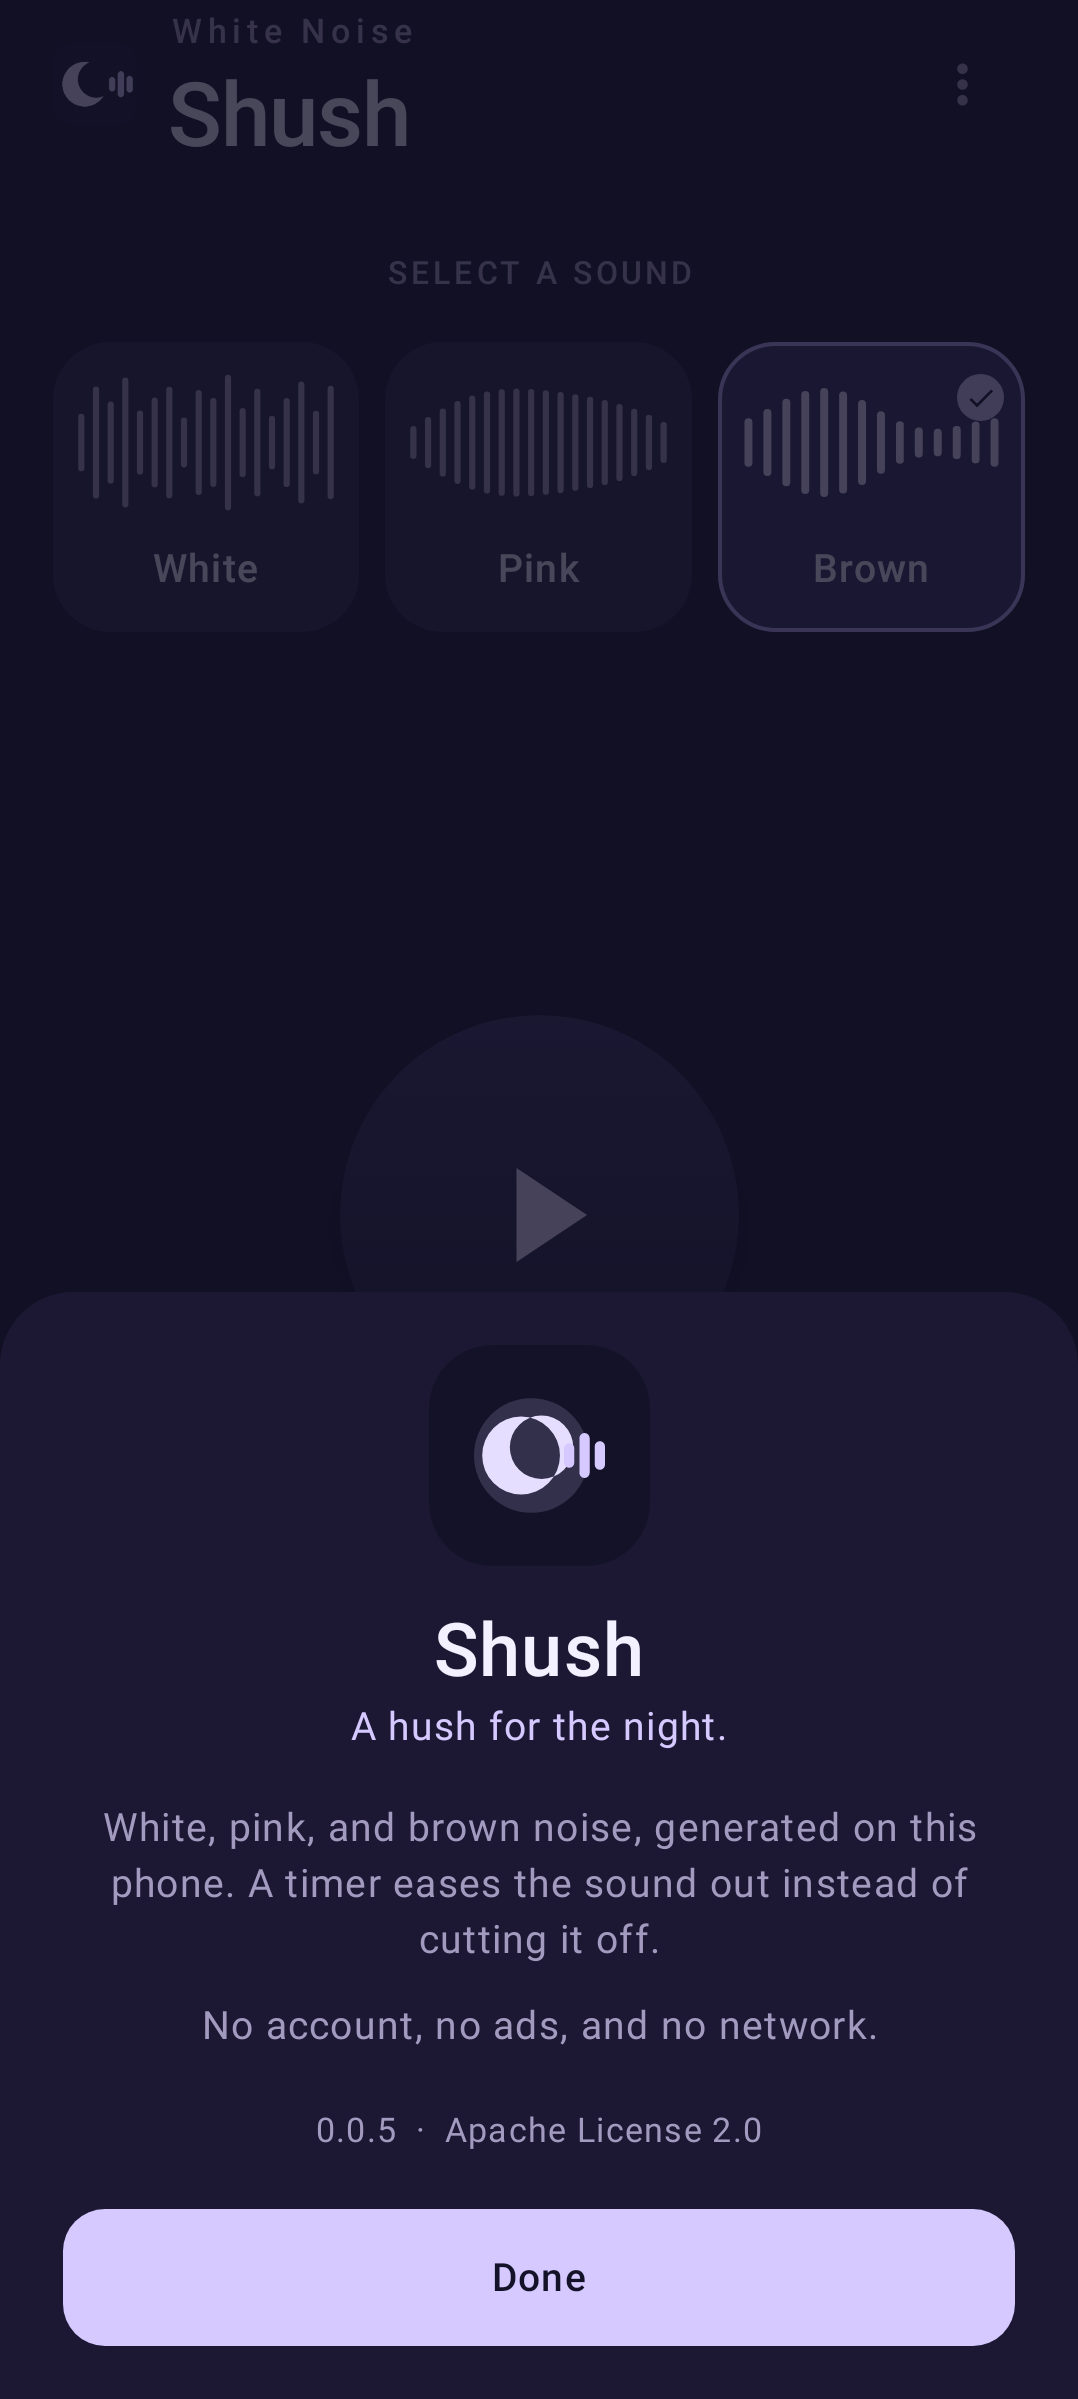
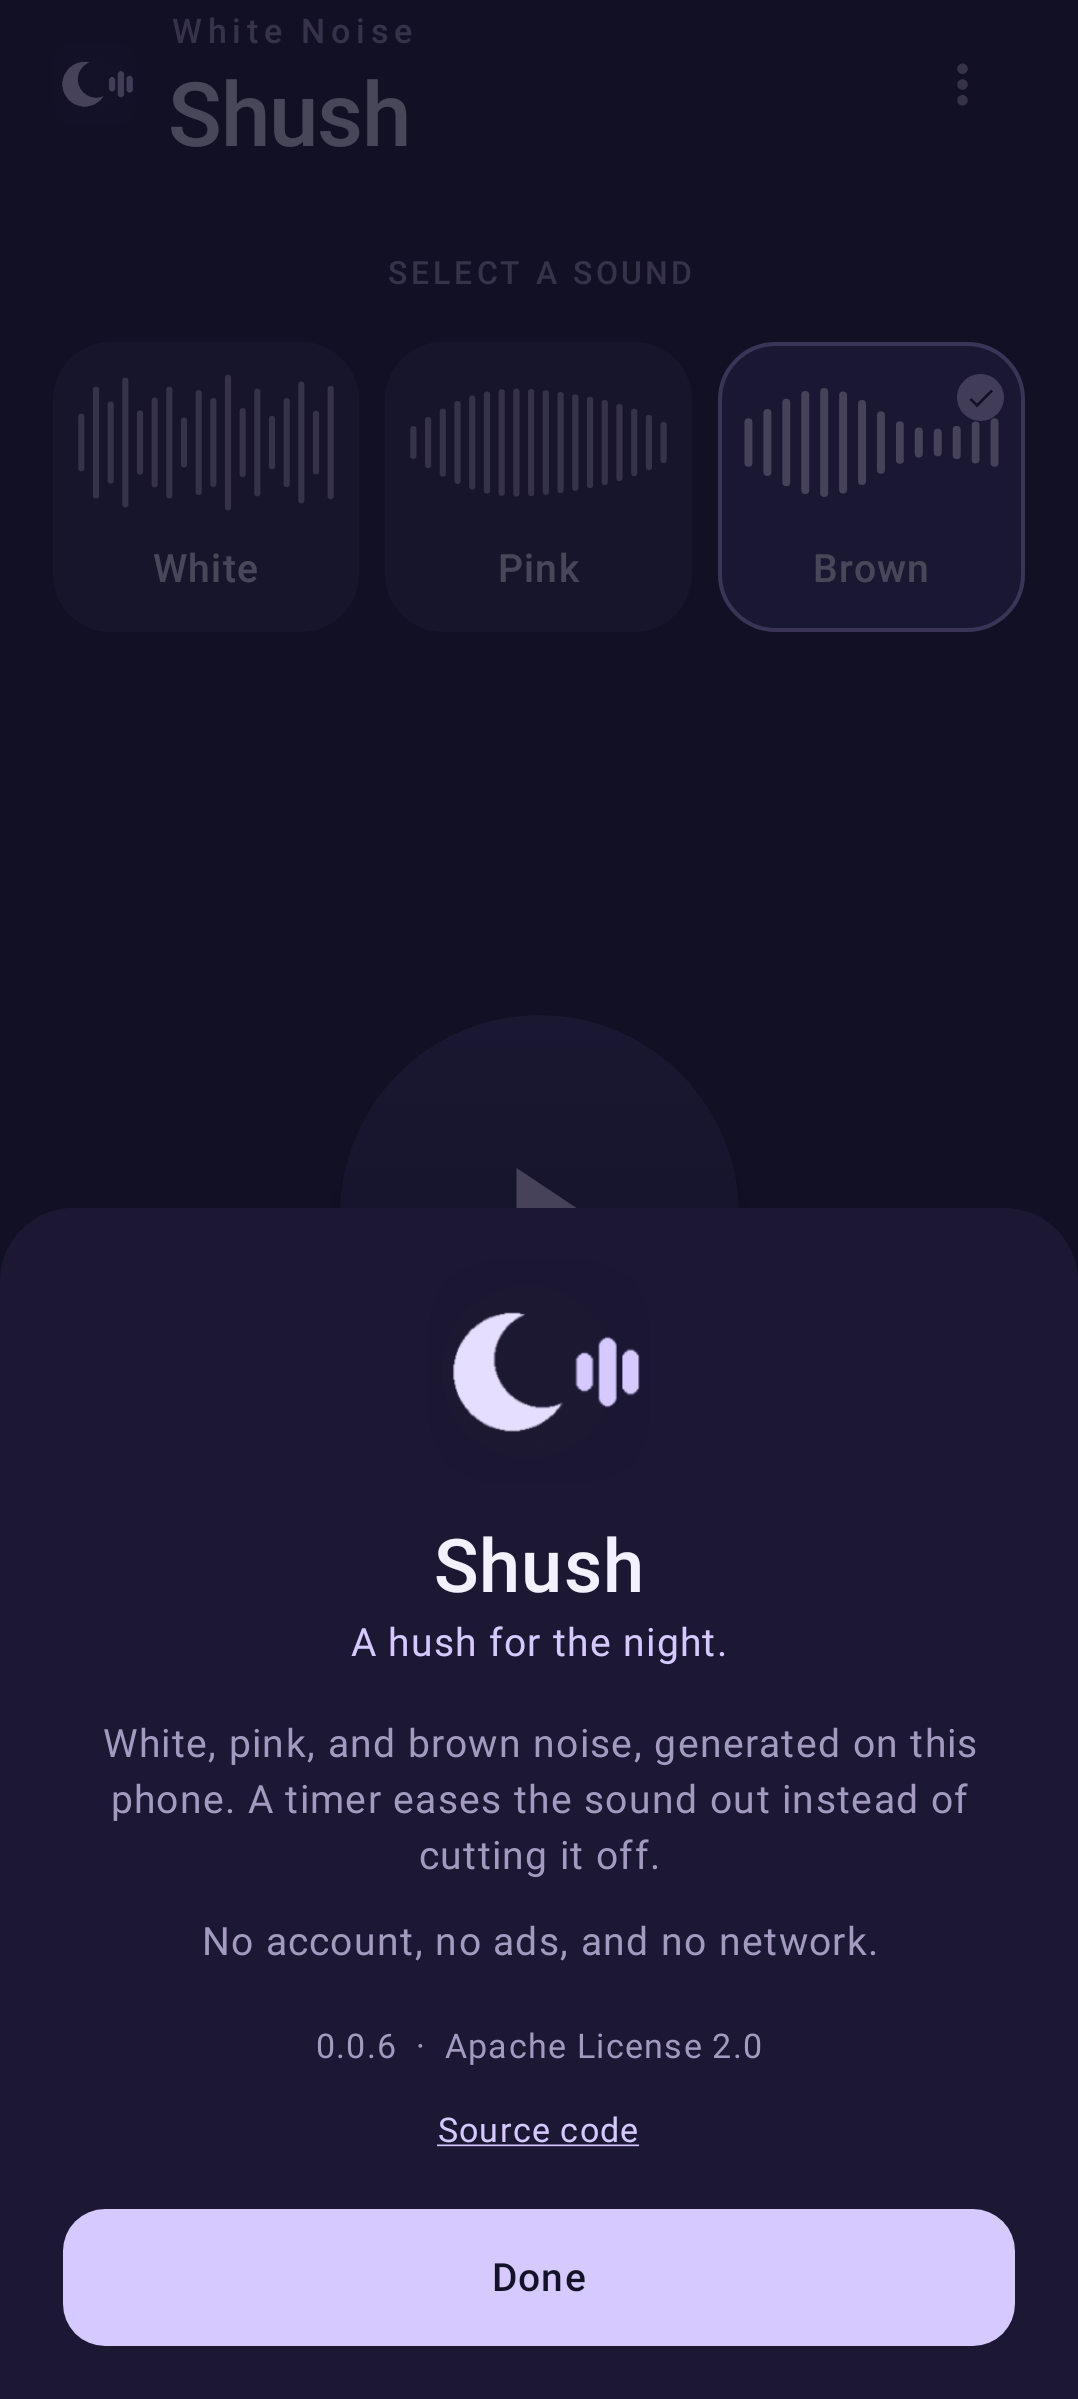
Show the launcher mark on the About page.
The drawn mark did not match the moon-and-bars icon used in the header and the launcher. About now shows that icon and links to the source repository. The README links the Play listing. Version is 0.0.6.

Changed region(s): [[0.0918, 0.4935, 0.9184, 0.8945]]

diff --git a/app/src/main/java/com/galynte/shush/ui/ShushOverlays.kt b/app/src/main/java/com/galynte/shush/ui/ShushOverlays.kt
@@ -30,8 +30,14 @@ import androidx.compose.ui.Alignment
 import androidx.compose.ui.Modifier
 import androidx.compose.ui.draw.clip
 import androidx.compose.ui.semantics.Role
+import androidx.compose.ui.text.LinkAnnotation
+import androidx.compose.ui.text.SpanStyle
+import androidx.compose.ui.text.TextLinkStyles
+import androidx.compose.ui.text.buildAnnotatedString
 import androidx.compose.ui.text.font.FontWeight
 import androidx.compose.ui.text.style.TextAlign
+import androidx.compose.ui.text.style.TextDecoration
+import androidx.compose.ui.text.withLink
 import androidx.compose.ui.unit.dp
 import androidx.compose.ui.unit.sp
 import com.galynte.shush.playback.FADE_MS
@@ -142,15 +148,12 @@ fun AboutOverlay(versionName: String, onDismiss: () -> Unit) {
                 .padding(horizontal = 24.dp, vertical = 20.dp),
             horizontalAlignment = Alignment.CenterHorizontally,
         ) {
-            Box(
+            LauncherMark(
                 modifier = Modifier
                     .size(84.dp)
-                    .clip(RoundedCornerShape(24.dp))
-                    .background(Night),
-                contentAlignment = Alignment.Center,
-            ) {
-                ShushMark(Modifier.fillMaxSize())
-            }
+                    .clip(RoundedCornerShape(24.dp)),
+                contentDescription = null,
+            )
             Spacer(Modifier.height(16.dp))
             Text(
                 text = "Shush",
@@ -183,6 +186,25 @@ fun AboutOverlay(versionName: String, onDismiss: () -> Unit) {
             Text(
                 text = "$versionName  ·  Apache License 2.0",
                 color = TextMuted,
+                fontSize = 13.sp,
+            )
+            Spacer(Modifier.height(8.dp))
+            Text(
+                text = buildAnnotatedString {
+                    withLink(
+                        LinkAnnotation.Url(
+                            SOURCE_URL,
+                            TextLinkStyles(
+                                style = SpanStyle(
+                                    color = Lavender,
+                                    textDecoration = TextDecoration.Underline,
+                                ),
+                            ),
+                        ),
+                    ) {
+                        append("Source code")
+                    }
+                },
                 fontSize = 13.sp,
             )
             Spacer(Modifier.height(18.dp))
@@ -293,6 +315,8 @@ private fun OverlayButton(
         Text(text = label, color = foreground, fontSize = 15.sp, fontWeight = FontWeight.SemiBold)
     }
 }
+
+private const val SOURCE_URL = "https://github.com/Galynte/Shush"
 
 private fun Modifier.consumeClicks(): Modifier = pointerInput(Unit) {
     awaitEachGesture {

diff --git a/app/src/main/java/com/galynte/shush/ui/ShushScreen.kt b/app/src/main/java/com/galynte/shush/ui/ShushScreen.kt
@@ -174,7 +174,11 @@ fun ShushScreen(
 @Composable
 private fun Header(onOpenAbout: () -> Unit) {
     Row(verticalAlignment = Alignment.CenterVertically) {
-        HeaderIcon()
+        LauncherMark(
+            modifier = Modifier
+                .size(32.dp)
+                .clip(RoundedCornerShape(8.dp)),
+        )
         Spacer(Modifier.width(12.dp))
         Column(Modifier.weight(1f)) {
             Text(
@@ -215,7 +219,10 @@ private fun Header(onOpenAbout: () -> Unit) {
 }
 
 @Composable
-private fun HeaderIcon() {
+internal fun LauncherMark(
+    modifier: Modifier = Modifier,
+    contentDescription: String? = "Shush",
+) {
     val context = LocalContext.current
     val image = remember {
         val drawable = requireNotNull(ContextCompat.getDrawable(context, R.mipmap.ic_launcher))
@@ -223,10 +230,8 @@ private fun HeaderIcon() {
     }
     Image(
         bitmap = image,
-        contentDescription = "Shush",
-        modifier = Modifier
-            .size(32.dp)
-            .clip(RoundedCornerShape(8.dp)),
+        contentDescription = contentDescription,
+        modifier = modifier,
     )
 }
 

diff --git a/app/src/test/java/com/galynte/shush/ReadmeScreenshotTest.kt b/app/src/test/java/com/galynte/shush/ReadmeScreenshotTest.kt
@@ -83,7 +83,7 @@ class ReadmeScreenshotTest {
                     waveformPhase = phase,
                     showCustomTimer = showCustomTimer,
                     showAbout = showAbout,
-                    versionName = "0.0.5",
+                    versionName = "0.0.6",
                     onSelectSound = {},
                     onVolume = {},
                     onPlayPause = {},

diff --git a/README.md b/README.md
@@ -12,7 +12,9 @@ Minimum Android version is 8.0 (API 26). The application id is `com.galynte.shus
 
 ## Get the app
 
-Install a debug build from source, or take the APK from a [GitHub release](https://github.com/Galynte/Shush/releases) once a version is tagged. Play Store hosting uses the AAB from that same release. See [PUBLISHING.md](PUBLISHING.md).
+[![Get it on Google Play](docs/assets/images/playstore_badge.png)](https://play.google.com/store/apps/details?id=com.galynte.shush) [![Get it on GitHub](docs/assets/images/github_badge.png)](https://github.com/Galynte/Shush/releases)
+
+Install a debug build from source, or take the APK from a [GitHub release](https://github.com/Galynte/Shush/releases). Play Store hosting uses the AAB from that same release. See [PUBLISHING.md](PUBLISHING.md).
 
 ## Screenshots
 
@@ -36,7 +38,7 @@ Install a debug build from source, or take the APK from a [GitHub release](https
 
 The name is Shush. The line under it is "A hush for the night."
 
-The mark is a crescent with three short bars in the opening, a sound getting quieter rather than a siren. It is drawn the same way in the app, the launcher, and the Play graphic. Source for the bitmap sizes is `tools/render_brand.py`. An SVG sits at `docs/assets/brand/shush-mark.svg`.
+The mark is a crescent with three short bars in the opening, a sound getting quieter rather than a siren. The home header and the About page show the launcher icon, which matches `docs/assets/brand/mark.png`. Source for the bitmap sizes is `tools/render_brand.py`.
 
 | Role | Hex |
 | --- | --- |

diff --git a/PUBLISHING.md b/PUBLISHING.md
@@ -12,7 +12,7 @@ The workflow in `.github/workflows/build-and-release.yml` follows the TapOut pip
 - Pushes to `main` also build a release APK and AAB and upload them as workflow artifacts.
 - A tag named `1.2.3` (three numbers, no `v`) sets `versionName` and `versionCode`, creates a GitHub Release, and attaches `Shush-1.2.3.apk` and `Shush-1.2.3.aab`.
 
-`versionCode` is `major * 10000 + minor * 100 + patch`, so `0.0.1` is `1`, `0.0.2` is `2`, `0.0.3` is `3`, `0.0.4` is `4`, `0.0.5` is `5`, `1.0.0` is `10000`, and `1.2.3` is `10203`. Play requires this number to increase on every upload. The current release is `0.0.5`.
+`versionCode` is `major * 10000 + minor * 100 + patch`, so `0.0.1` is `1`, `0.0.2` is `2`, `0.0.3` is `3`, `0.0.4` is `4`, `0.0.5` is `5`, `0.0.6` is `6`, `1.0.0` is `10000`, and `1.2.3` is `10203`. Play requires this number to increase on every upload. The current release is `0.0.6`.
 
 ### Signing secrets
 
